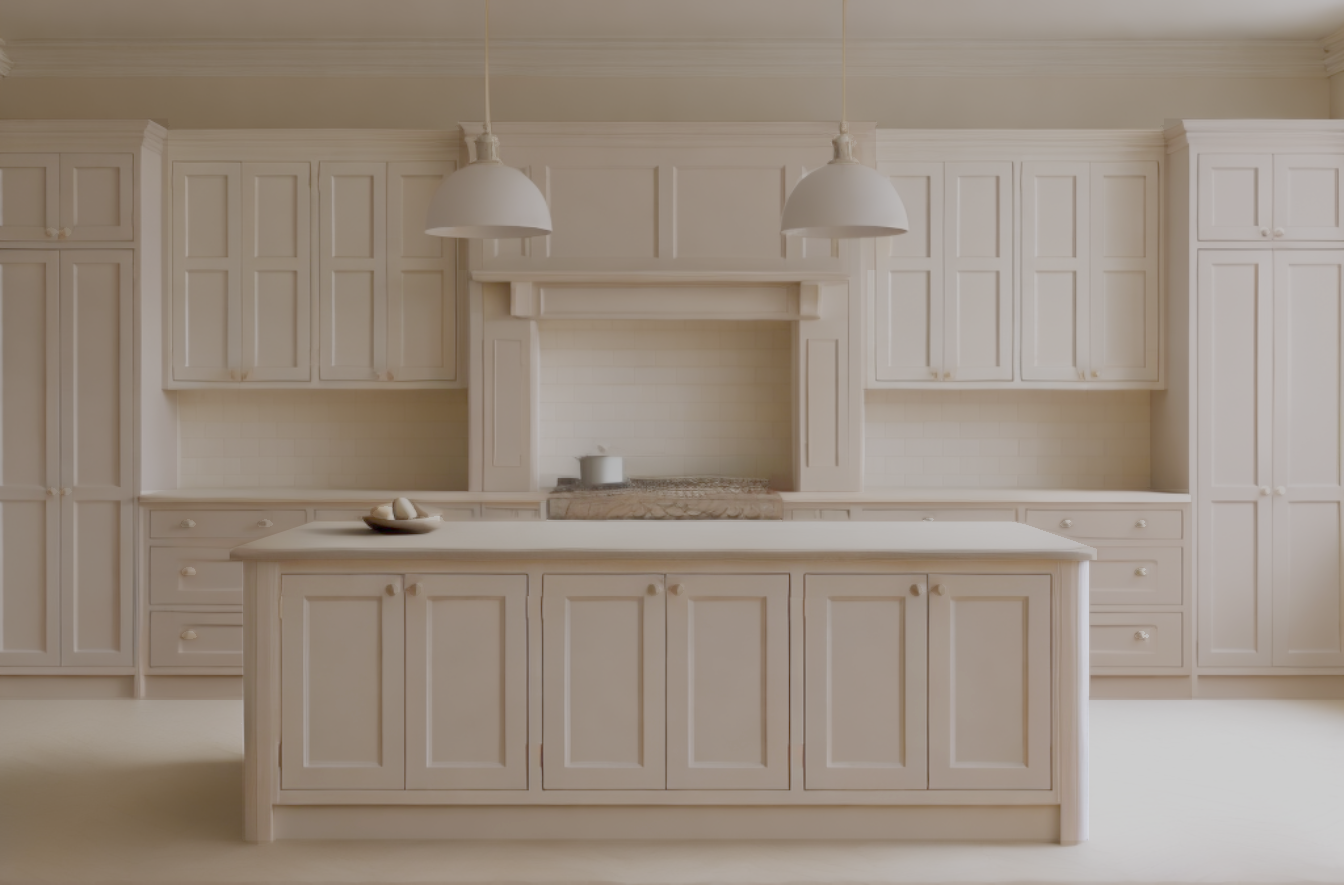
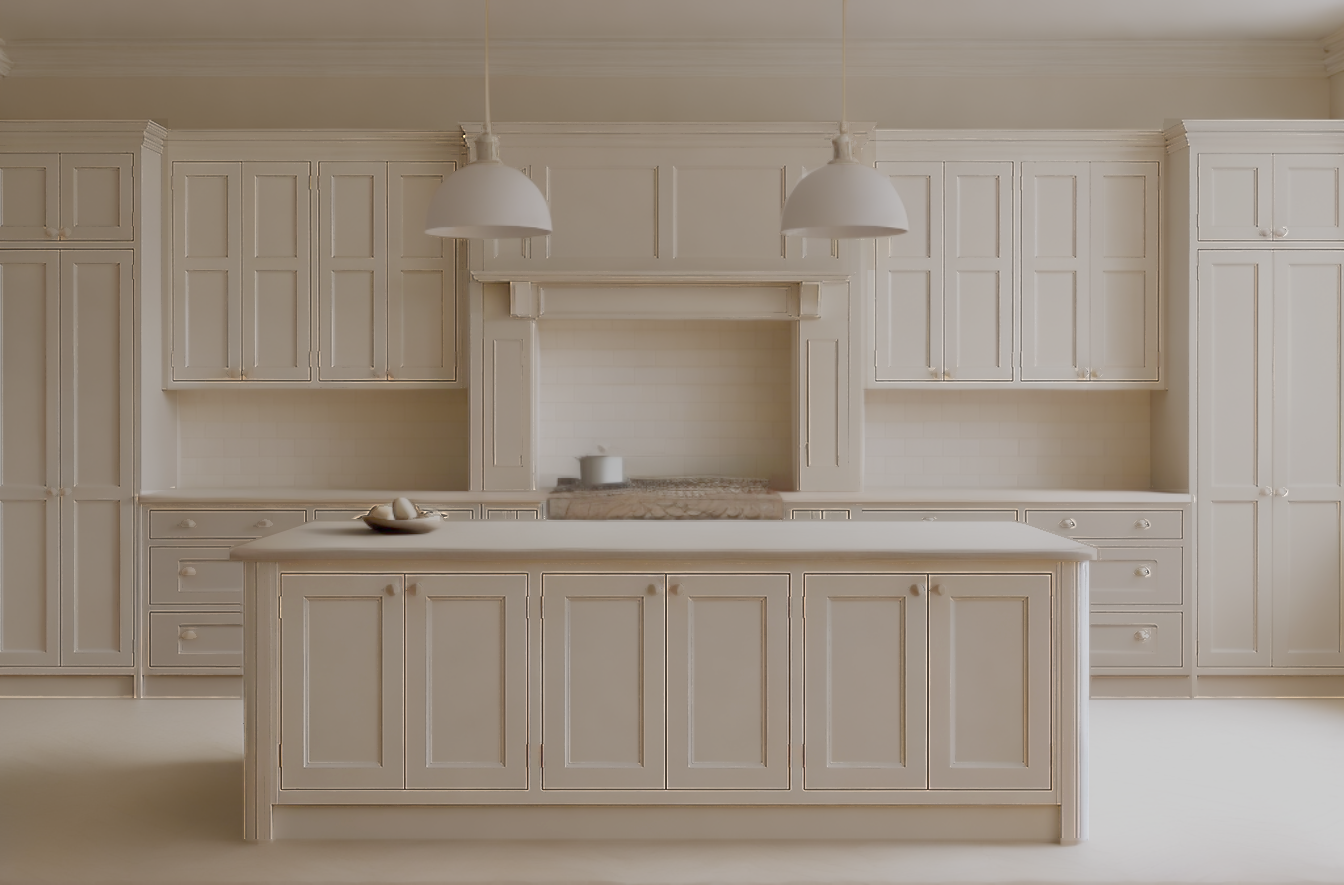
Classic kitchen: shaker frames carried on any paint, larder knobs without a ring
- Light refine `lines` on the Classic fronts (finer, stronger than the
  Galley's: SHAKER_LINES): the frames' bevels and the gaps between doors are
  carried into the light, so the larders and cabinets keep their panels on a
  dark paint instead of reading flat
- The right larder's four knobs re-measured (centres, ~7.4 × 6.6 px): the
  10 × 9 px shapes, one 2 px off, left a ring of the old cream round each
- Paints re-fitted (ΔE within ±0.1)

diff --git a/scenes/lightRefine.ts b/scenes/lightRefine.ts
@@ -54,17 +54,21 @@ export interface LightRefine {
 // A gap between oak fronts is a dark slot or a lit edge a few px wide, 8%+ off the wood around it
 // (log luminance); the grain beside it mostly stays under that
 const FRONT_LINES = { sigma: 2.5, threshold: 0.08, strength: 1.5 };
+// The Classic kitchen's shaker frames: finer bevels on paler paint, so fainter lines, carried harder
+const SHAKER_LINES = { sigma: 2, threshold: 0.05, strength: 2.2 };
 
 // Per scene, per item
 export const LIGHT_REFINE: Record<string, Record<string, LightRefine>> = {
   // The Classic kitchen's painted fronts, one light level and colour (its paints are fitted
   // against this light: npm run finishes:fromref after a change)
   kitchen: {
-    'wall-cabinets': { sigma: 0, match: 'fronts' },
-    'tall-units': { sigma: 0, match: 'fronts' },
-    canopy: { sigma: 0, match: 'fronts' },
-    'base-cabinets': { sigma: 0, match: 'fronts' },
-    island: { sigma: 0, match: 'fronts' },
+    // …and, as on the Galley's fronts, the shaker frames' bevels and the gaps between doors carried
+    // into the light (on a dark paint they had faded to almost nothing, the doors read flat)
+    'wall-cabinets': { sigma: 0, match: 'fronts', lines: SHAKER_LINES },
+    'tall-units': { sigma: 0, match: 'fronts', lines: SHAKER_LINES },
+    canopy: { sigma: 0, match: 'fronts', lines: SHAKER_LINES },
+    'base-cabinets': { sigma: 0, match: 'fronts', lines: SHAKER_LINES },
+    island: { sigma: 0, match: 'fronts', lines: SHAKER_LINES },
   },
   // The Modern kitchen: the LED strip under the plinths glowing on the floor, the sun from the
   // window on the right-hand worktop and the plant's shadows on the wall by it

diff --git a/scenes/scenes.ts b/scenes/scenes.ts
@@ -217,7 +217,8 @@ export const SCENES: Scene[] = [
               8
             ),
           ],
-          protectShapes: [knob(1264.4, 231.3), knob(1279.4, 231.6), knob(1265.3, 490), knob(1280.9, 490.3)],
+          // (measured: each brass knob ~8 × 7 px; a 10 × 9 px shape left a ring of the old cream round it)
+          protectShapes: [knob(1265.3, 231.4, 3.7, 3.3), knob(1280.5, 231.8, 3.7, 3.3), knob(1265.1, 491.4, 3.7, 3.3), knob(1280.6, 491.4, 3.7, 3.3)],
         },
       },
       {
